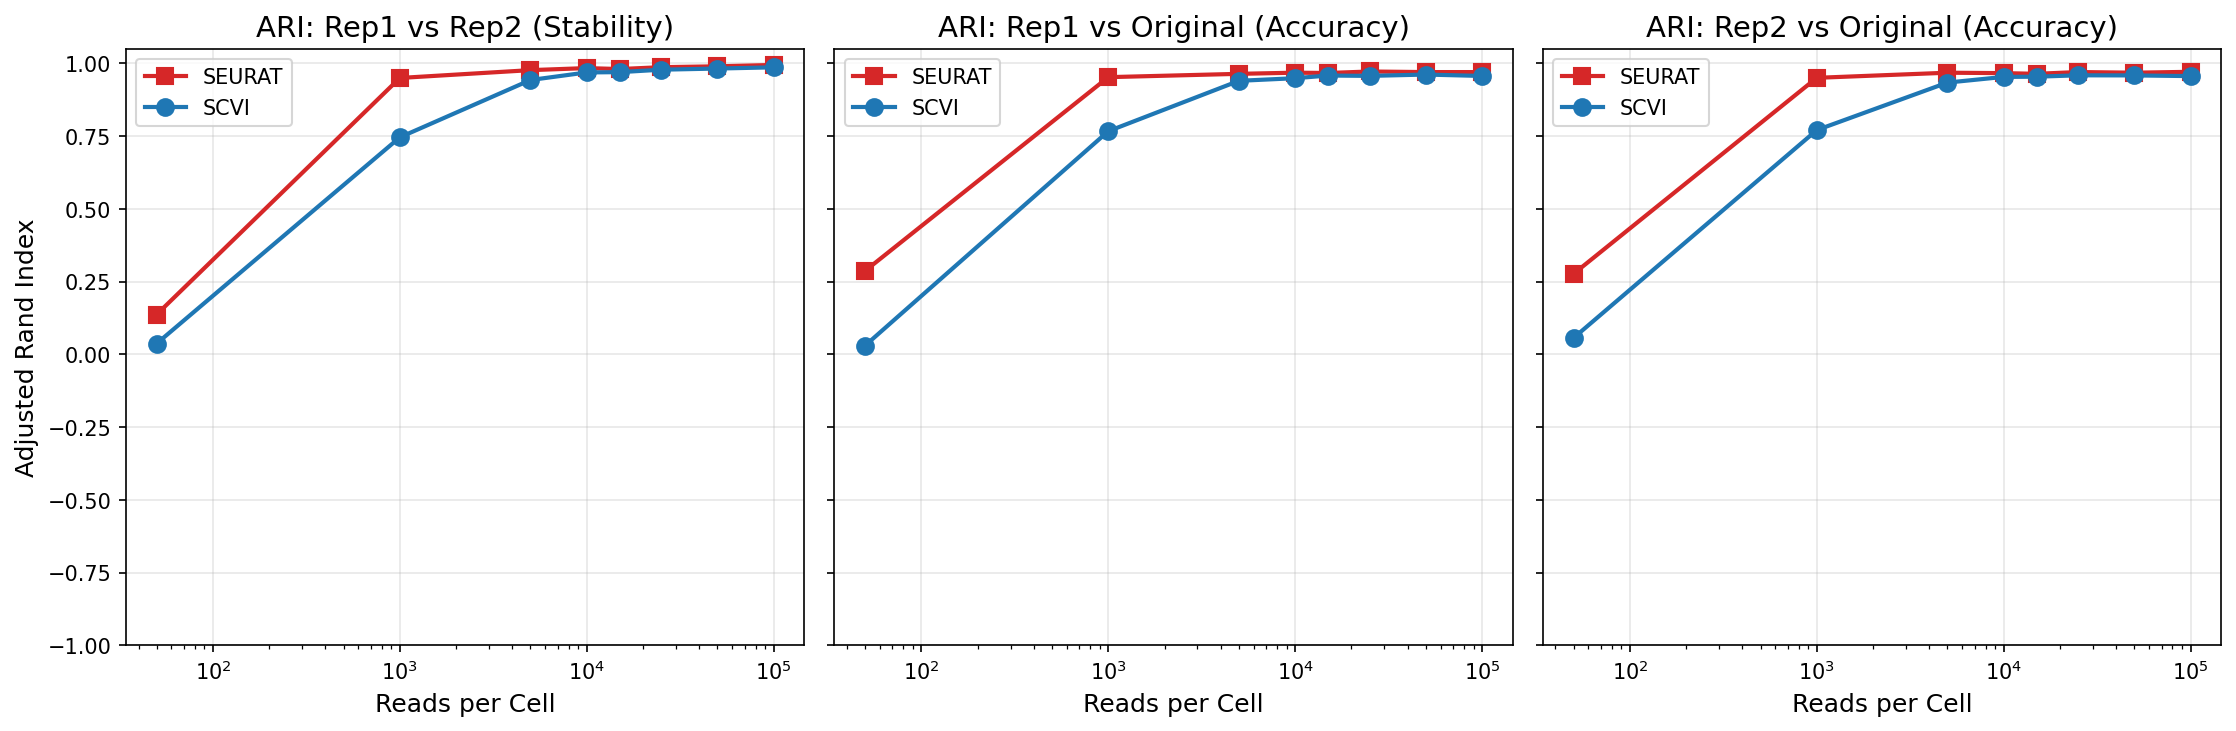
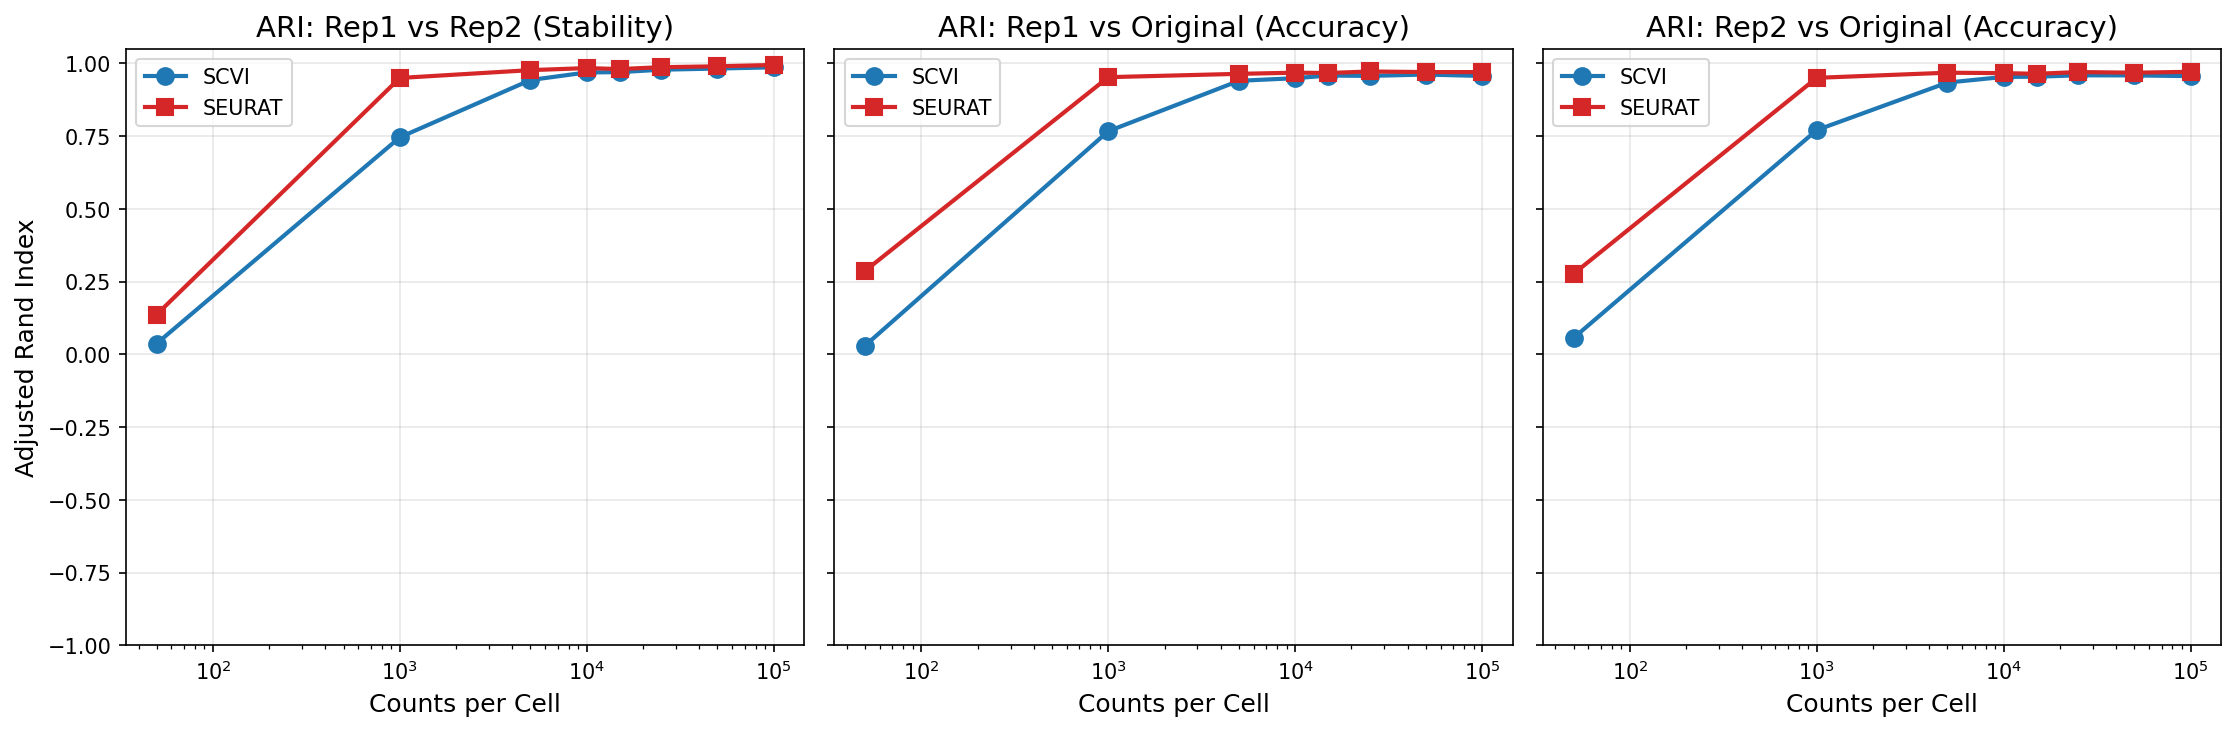
Rename axis label from 'reads per cell' to 'counts per cell'
Smart-seq v4 has no UMIs and the matrix may include PCR duplicates,
so 'counts per cell' more accurately describes the row sum we plot.
Updates plot labels, argparse help, README, and stats summary, then
refreshes result PNGs and TSVs.

diff --git a/bin/plot_stability.py b/bin/plot_stability.py
@@ -94,7 +94,7 @@ def plot_agreement_curves(df, output_path, threshold=0.95):
                 markersize=8
             )
 
-        ax.set_xlabel('Reads per Cell', fontsize=12)
+        ax.set_xlabel('Counts per Cell', fontsize=12)
         if idx == 0:
             ax.set_ylabel('Adjusted Rand Index', fontsize=12)
         ax.set_title(title, fontsize=14)
@@ -185,7 +185,7 @@ def plot_per_type_heatmap(df, output_path):
             else:
                 ax.set_ylabel('')
 
-            ax.set_xlabel('Reads per Cell', fontsize=12)
+            ax.set_xlabel('Counts per Cell', fontsize=12)
             ax.set_title(f'{comparison_titles[comparison]}', fontsize=12)
 
         plt.suptitle(f'Per-Cell-Type {metric_label} ({method.upper()})', fontsize=14)

diff --git a/bin/downsample.py b/bin/downsample.py
@@ -25,7 +25,7 @@ def parse_arguments():
     )
     parser.add_argument(
         '--target_depth', type=float, default=10000,
-        help='Target number of reads per cell'
+        help='Target number of counts per cell'
     )
     parser.add_argument(
         '--seed', type=int, default=42,
@@ -57,7 +57,7 @@ def main():
     print(f"Original depth - Mean: {original_counts.mean():.0f}, Median: {np.median(original_counts):.0f}")
 
     # Downsample using scanpy
-    print(f"\nDownsampling to {args.target_depth} reads per cell (seed={args.seed})...")
+    print(f"\nDownsampling to {args.target_depth} counts per cell (seed={args.seed})...")
     # Per-cell multinomial downsampling to target depth
 
 

diff --git a/bin/plot_compute_times.py b/bin/plot_compute_times.py
@@ -127,7 +127,7 @@ def main():
             markersize=8
         )
 
-    ax.set_xlabel('Reads per Cell', fontsize=12)
+    ax.set_xlabel('Counts per Cell', fontsize=12)
     ax.set_ylabel('Compute Time (seconds)', fontsize=12)
     ax.set_title('Prediction Compute Time vs Sequencing Depth', fontsize=14)
     ax.set_xscale('log')

diff --git a/bin/compare_replicates.py b/bin/compare_replicates.py
@@ -47,7 +47,7 @@ def parse_arguments():
         '--depth',
         type=int,
         required=True,
-        help='Sequencing depth (reads per cell) for this comparison'
+        help='Sequencing depth (counts per cell) for this comparison'
     )
     parser.add_argument(
         '--method',

diff --git a/README.md b/README.md
@@ -27,7 +27,7 @@ Conda envs are hardcoded in `nextflow.config`: `scanpyenv` (Python: scanpy, scvi
 | Census version | 2024-07-01 |
 | Cells subsampled | 5000 |
 | Reference / query split | 70 / 30, stratified by `cell_type` |
-| Depths (reads/cell) | 50, 1k, 5k, 10k, 15k, 25k, 50k, 100k |
+| Depths (counts/cell) | 50, 1k, 5k, 10k, 15k, 25k, 50k, 100k |
 | Seeds | 42, 123 |
 | Seurat normalization | SCTransform, 50 PCs |
 | scVI predictor | RandomForest on scVI latent embeddings |
@@ -41,12 +41,14 @@ Human Multiple Cortical Areas SMART-seq:
 
 Minimum depth for ARI &ge; 0.95 (`stability_summary.tsv`):
 
-| Method | Min depth (reads/cell) |
+| Method | Min depth (counts/cell) |
 |---|---|
 | Seurat | 5,000 |
 | scVI | 10,000 |
 
-Both methods saturate by 25k reads/cell. Seurat reaches the 0.95 stability threshold earlier than scVI on this dataset.
+Both methods saturate by 25k counts/cell. Seurat reaches the 0.95 stability threshold earlier than scVI on this dataset.
+
+Note: counts here are gene-assigned read counts in the expression matrix, not raw sequencer reads. Smart-seq v4 has no UMIs, so PCR duplicates may be present depending on upstream processing.
 
 ## Output layout
 

diff --git a/downsampling_stats_summary.md b/downsampling_stats_summary.md
@@ -20,9 +20,9 @@
 
 ## Key Observations
 
-1. **Extreme downsampling (50 reads/cell)**: Only ~46 genes/cell detected, losing ~55% of total genes
-2. **5,000 reads/cell**: ~1,795 genes/cell (28% of original), retains 89% of total genes
-3. **100,000 reads/cell**: ~4,295 genes/cell (67% of original), retains 99% of total genes
+1. **Extreme downsampling (50 counts/cell)**: Only ~46 genes/cell detected, losing ~55% of total genes
+2. **5,000 counts/cell**: ~1,795 genes/cell (28% of original), retains 89% of total genes
+3. **100,000 counts/cell**: ~4,295 genes/cell (67% of original), retains 99% of total genes
 4. **Replicate consistency**: Seeds 42 and 123 show very consistent results
 
 ## Conclusion
